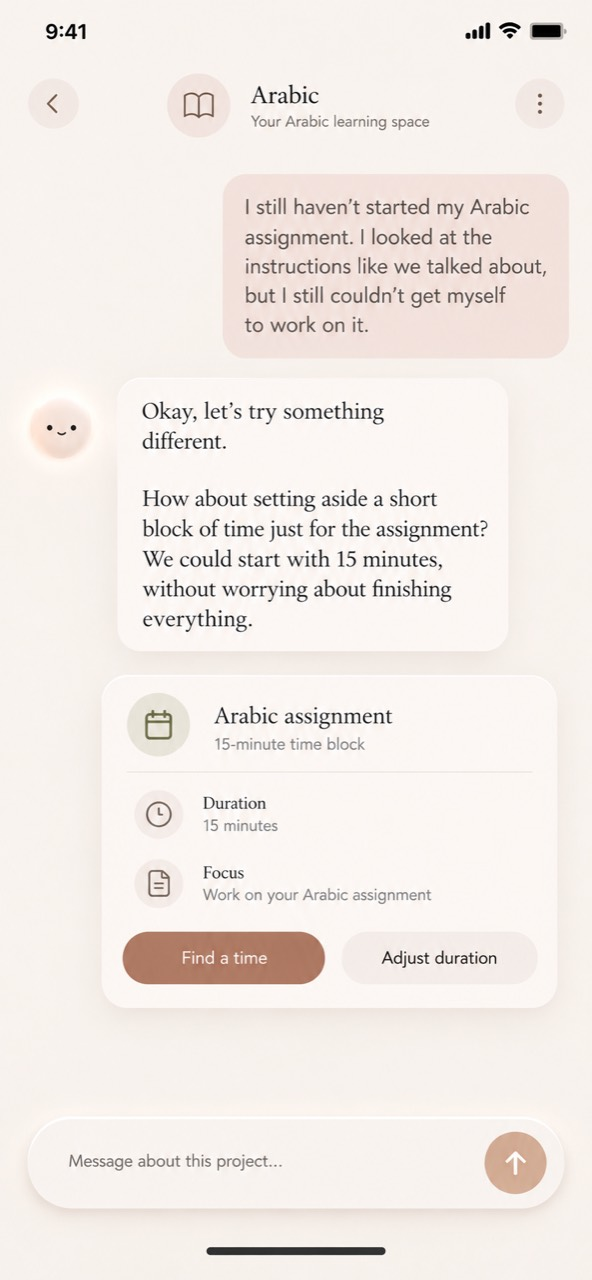
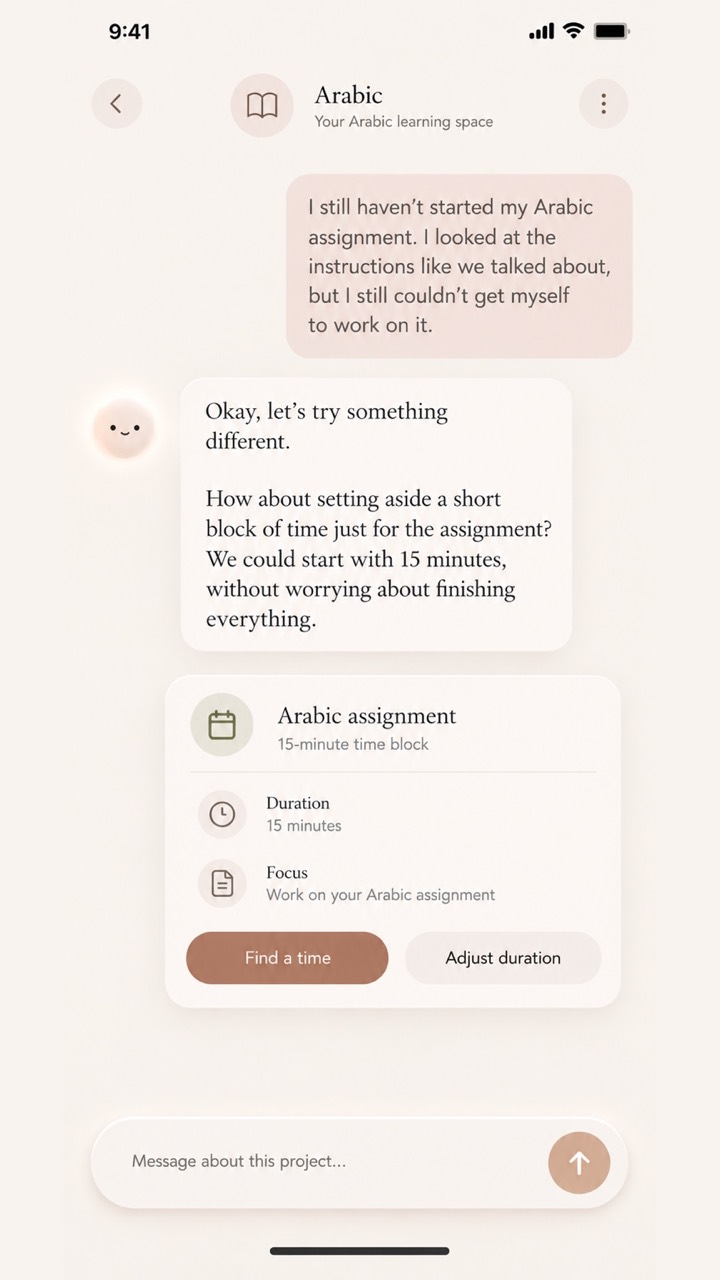
Replace Slide 4 adaptation screenshot with updated original

diff --git a/index.html b/index.html
@@ -519,7 +519,7 @@
           <h3><span>03 —</span> ADAPTATION</h3>
           <figure>
             <div class="iphone">
-              <img src="assets/auri-adaptation.jpg" alt="Auri suggests trying a 15-minute time block for the Arabic assignment" width="592" height="1280">
+              <img src="assets/auri-adaptation.jpg" alt="Auri suggests trying a 15-minute time block for the Arabic assignment" width="720" height="1280">
             </div>
           </figure>
         </li>
